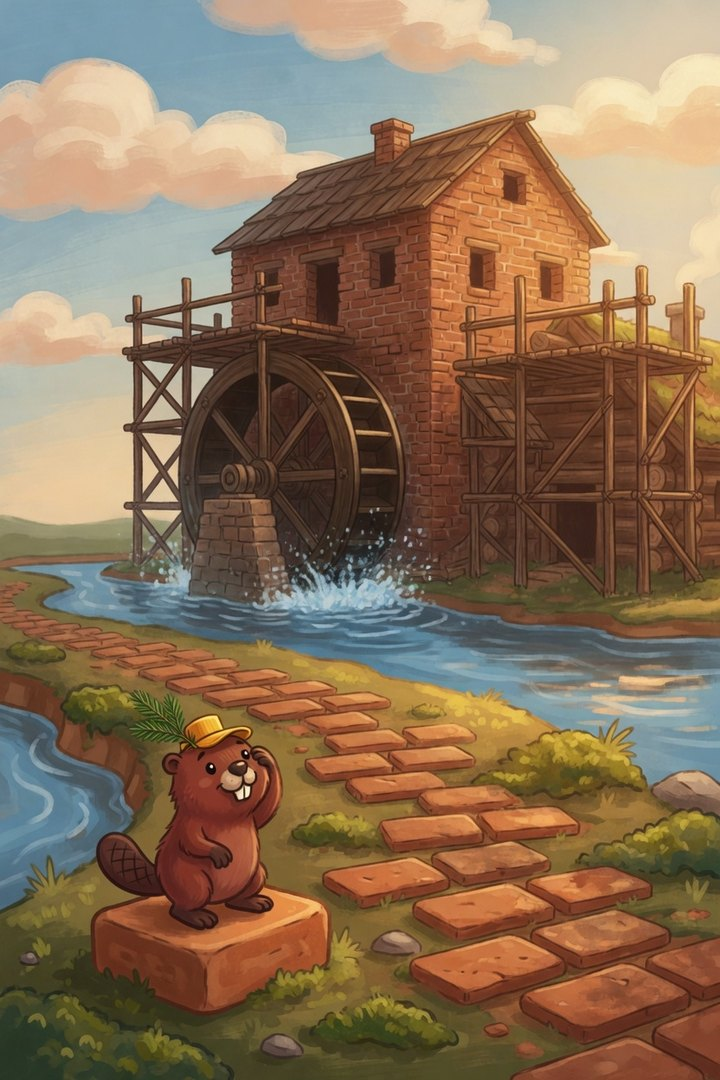
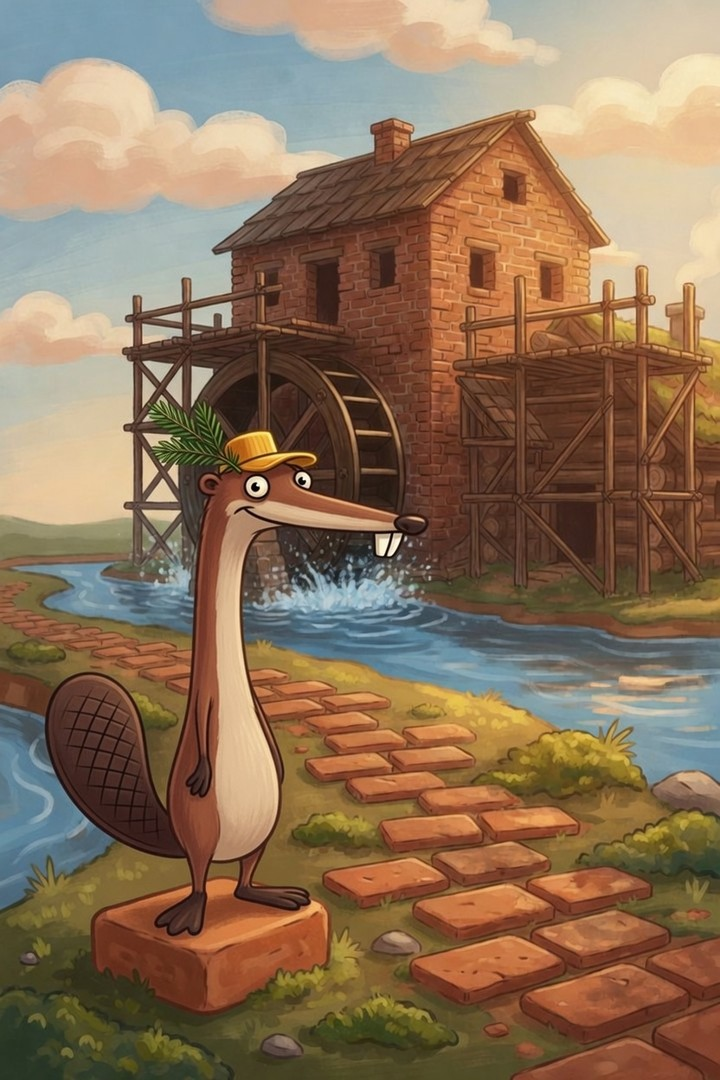
Ship lh9 with the long beaver on the menu and in the museum.
The title, the story plates, and Bober's three sprites now use the lanky beaver with two teeth. The menu shows the full poster.

Changed region(s): [[0.0611, 0.3667, 0.6111, 0.8861]]

diff --git a/index.html b/index.html
@@ -6,7 +6,7 @@
   <meta name="theme-color" content="#1A1028">
   <meta name="description" content="Bober Lodge Hop. Hop the bank, stomp the reds, and light the lodge bell.">
   <title>Bober Lodge Hop</title>
-  <link rel="stylesheet" href="css/game.css?v=lh8">
+  <link rel="stylesheet" href="css/game.css?v=lh9">
 </head>
 <body data-mode="title" data-card="">
   <div id="app">
@@ -23,7 +23,7 @@
     </div>
     <section id="panel">
       <div id="screen-title" class="screen">
-        <img id="poster" src="assets/poster.jpg?v=lh8" alt="Bober hops toward the lodge bell">
+        <img id="poster" src="assets/poster.jpg?v=lh9" alt="Bober hops toward the lodge bell">
         <p class="eyebrow">Fan game by a holder</p>
         <h1>BOBER<br>LODGE HOP</h1>
         <p class="story">The lodge bell is dark. The reds took the acorns that wake it. Hop the bank, the mill, and the spillway. The light shows the river is held upstream.</p>
@@ -49,7 +49,7 @@
           <li>Reach the bell pole. The lodge bell lights on the rope, and the river is still thin. The last bank is the source.</li>
         </ul>
         <p class="note">Fan game by a holder. Unofficial. Not the project team. No wallet.</p>
-        <p id="build-tag">Build lh8</p>
+        <p id="build-tag">Build lh9</p>
         <button type="button" id="btn-sound">Sound on</button>
         <button type="button" id="btn-notes-back" class="ghost">BACK</button>
       </div>
@@ -126,7 +126,7 @@
       </div>
     </div>
   </div>
-  <script src="js/levels.js?v=lh8"></script>
-  <script src="js/game.js?v=lh8"></script>
+  <script src="js/levels.js?v=lh9"></script>
+  <script src="js/game.js?v=lh9"></script>
 </body>
 </html>

diff --git a/js/game.js b/js/game.js
@@ -1,5 +1,5 @@
-/* Bober Lodge Hop lh8 — original bank hop. No borrowed characters or tunes. */
-const BUILD = 'lh8';
+/* Bober Lodge Hop lh9 — original bank hop. No borrowed characters or tunes. */
+const BUILD = 'lh9';
 const TILE = 32;
 let VIEW_W = 224;
 let VIEW_H = 360;
@@ -37,7 +37,7 @@ const ctx = canvas.getContext('2d');
 
 const ART = {};
 const FOOT = {
-  bober: 0.661, cap: 0.652, sap: 0.391, kit: 0.594, duck: 0.417, lockjaw: 0.522,
+  bober: 0.629, cap: 0.629, sap: 0.629, kit: 0.594, duck: 0.417, lockjaw: 0.522,
   leaper: 0.329, goose: 0.409, nipper: 0.601, icer: 0.541, mason: 0.600
 };
 
@@ -2280,13 +2280,13 @@ function drawRoller(e) {
 function drawBeaver(x, y, w, h, face, opt) {
   const o = opt || {};
   let sprite = 'bober';
-  let dw = 50;
-  let dh = 56;
+  let dw = 73;
+  let dh = 64;
   if (o.sprite) { sprite = o.sprite; dw = o.dw || dw; dh = o.dh || dh; }
   else if (o.boss) { sprite = 'lockjaw'; dw = 80; dh = 84; }
   else if (o.angry) { sprite = 'kit'; dw = 48; dh = 50; }
-  else if (o.form === 'sap') { sprite = 'sap'; dw = 72; dh = 58; }
-  else if (o.form === 'cap') { sprite = 'cap'; dw = 54; dh = 68; }
+  else if (o.form === 'sap') { sprite = 'sap'; dw = 73; dh = 64; }
+  else if (o.form === 'cap') { sprite = 'cap'; dw = 73; dh = 69; }
   if (blit(sprite, x + w / 2, y + h, dw, dh, face || 1, o.squash || 0, { bob: o.bob || 0, lean: o.lean || 0, sway: o.sway || 0 })) return;
   ctx.save();
   ctx.translate(x + w / 2, y + h);

diff --git a/css/game.css b/css/game.css
@@ -125,10 +125,10 @@ h2 { margin: 0 0 8px; font-size: 28px; line-height: 1; }
 
 #poster {
   width: 100%;
-  height: 38dvh;
-  max-height: 380px;
+  height: auto;
+  aspect-ratio: 16 / 9;
   object-fit: cover;
-  object-position: center 46%;
+  object-position: center;
   border-radius: 16px;
   border: 3px solid var(--ink);
   display: block;
@@ -288,10 +288,8 @@ body[data-card="end"] #btn-pause { visibility: hidden; }
 
 #story-art, #plate-art {
   width: 100%;
-  height: 42dvh;
-  max-height: 480px;
-  object-fit: cover;
-  object-position: center 28%;
+  height: auto;
+  object-fit: contain;
   border-radius: 16px;
   border: 3px solid var(--ink);
   display: block;
@@ -322,7 +320,7 @@ body[data-card="end"] #btn-pause { visibility: hidden; }
   width: 100%;
   height: 132px;
   object-fit: cover;
-  object-position: center 24%;
+  object-position: center 42%;
   display: block;
   margin-bottom: 6px;
   background: #87c8ea;

diff --git a/scripts/playtest.py b/scripts/playtest.py
@@ -5,7 +5,7 @@ from pathlib import Path
 
 from playwright.sync_api import sync_playwright
 
-URL = sys.argv[1] if len(sys.argv) > 1 else "http://127.0.0.1:8793/?v=lh8"
+URL = sys.argv[1] if len(sys.argv) > 1 else "http://127.0.0.1:8793/?v=lh9"
 OUT = Path(__file__).resolve().parents[1] / "docs" / "lh1"
 
 
@@ -18,7 +18,7 @@ def main():
         page.set_default_timeout(300000)
         page.on("pageerror", lambda err: errors.append(str(err)))
         page.goto(URL, wait_until="networkidle")
-        page.wait_for_function("() => window.__hop && window.__hop.build === 'lh8'")
+        page.wait_for_function("() => window.__hop && window.__hop.build === 'lh9'")
         result = page.evaluate("() => window.__hop.selfTest()")
         (OUT / "selftest.json").write_text(json.dumps(result, indent=2), encoding="utf-8")
         print(json.dumps(result["report"]))
@@ -73,7 +73,7 @@ def main():
         page.click("#btn-map-title")
         page.click("#btn-notes")
         notes = page.inner_text("#screen-notes")
-        if "lh8" not in notes or "Unofficial" not in notes or "No wallet" not in notes:
+        if "lh9" not in notes or "Unofficial" not in notes or "No wallet" not in notes:
             errors.append("notes missing fan line or build")
         page.click("#btn-notes-back")
         page.click("#btn-story")

diff --git a/README.md b/README.md
@@ -52,4 +52,4 @@ python scripts/playtest.py
 
 That needs a local server on port 8793 and Chrome. It runs the bank bot through all fifty-six levels, then clicks the phone UI.
 
-Build lh8. Original art and sounds.
+Build lh9. Original art and sounds.
